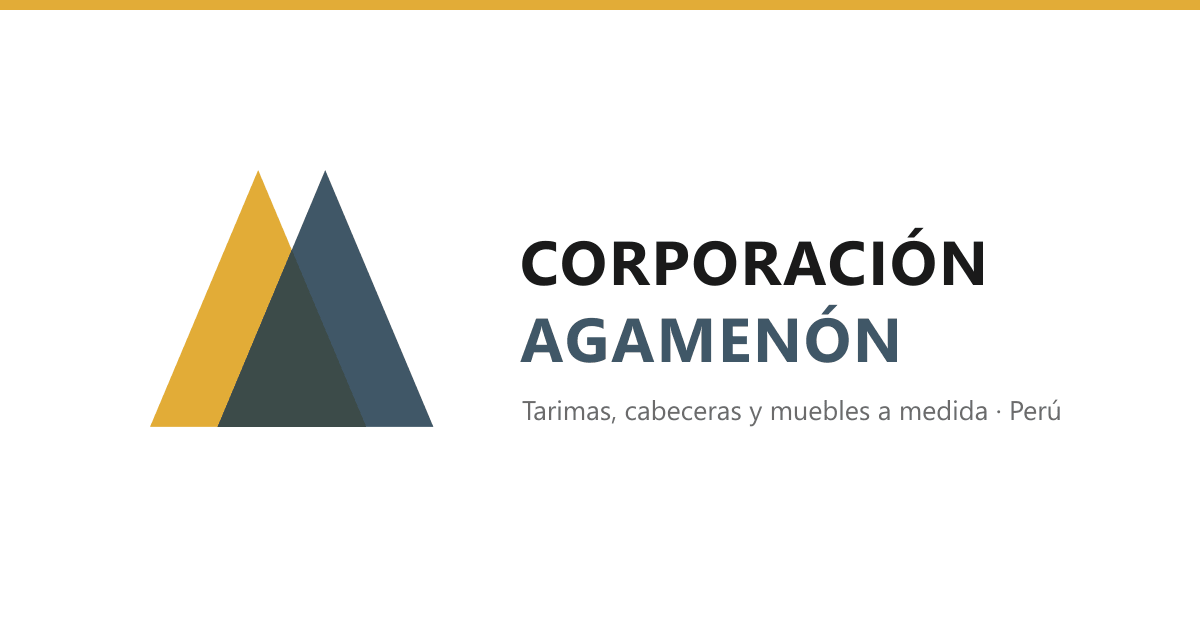
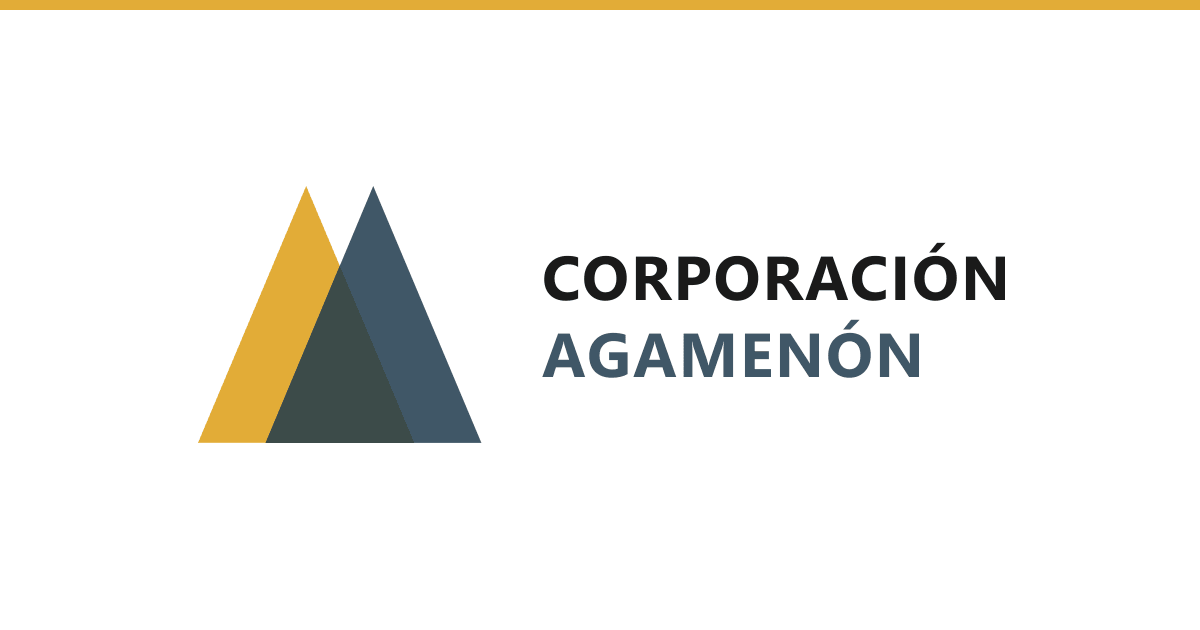
El Yape a nombre de quien de verdad recibe, y la marca sin frase debajo
El titular del Yape decía "E|D Espacios y Diseño", que no es el nombre de
ninguna cuenta: al yapear, el cliente ve en SU pantalla a quién le está
pagando, y si no coincide parece una estafa y no completa el pago. Ahora dice
Enmanuel Andry Baca Carrasco, igual que el titular de la cuenta BCP que ya
estaba publicada. Plin lo hereda solo (plinTitular no está puesto aparte).

El ejemplo del campo en el panel ya no sugiere el nombre de la empresa, que
era justo el error: ahora explica que va el nombre que ve el cliente.

La imagen que sale al compartir queda solo con la marca y el nombre, sin la
frase debajo. A tamaño de miniatura en un chat esa línea no se leía.

94 pruebas, eslint limpio.

Changed region(s): [[0.1233, 0.2714, 0.4008, 0.7238], [0.4317, 0.3619, 0.8633, 0.6032], [0.4317, 0.6333, 0.8942, 0.6635]]

diff --git a/src/data/catalog.js b/src/data/catalog.js
@@ -35,7 +35,11 @@ export const storeConfig = {
   // ---------- MÉTODOS DE PAGO ----------
   paymentMethods: { culqi: true, yapePlin: true, transferencia: true },
   yape: '951 278 010',
-  yapeTitular: 'E|D Espacios y Diseño',
+  // El titular del Yape NO es la empresa: es la persona a cuyo nombre está la
+  // cuenta. Tiene que coincidir letra por letra con lo que le sale al cliente
+  // en su propia pantalla al yapear; si no cuadra, parece una estafa y no
+  // paga. Lo mismo vale para el titular de la cuenta bancaria.
+  yapeTitular: 'Enmanuel Andry Baca Carrasco',
   banks: [],
 
   // ---------- AVISO DE COLOR ----------

diff --git a/src/pages/PagosTab.jsx b/src/pages/PagosTab.jsx
@@ -25,7 +25,7 @@ function Billetera({ nombre, campo, data, setData, adminKey }) {
             type="text"
             value={data[`${campo}Titular`]}
             onChange={(e) => setData({ ...data, [`${campo}Titular`]: e.target.value })}
-            placeholder="Corporación Agamenón"
+            placeholder="Nombre tal como le sale al cliente al yapear"
             className="mt-1 w-full rounded-lg border border-neutral-300 px-3 py-2 text-sm"
           />
         </label>
